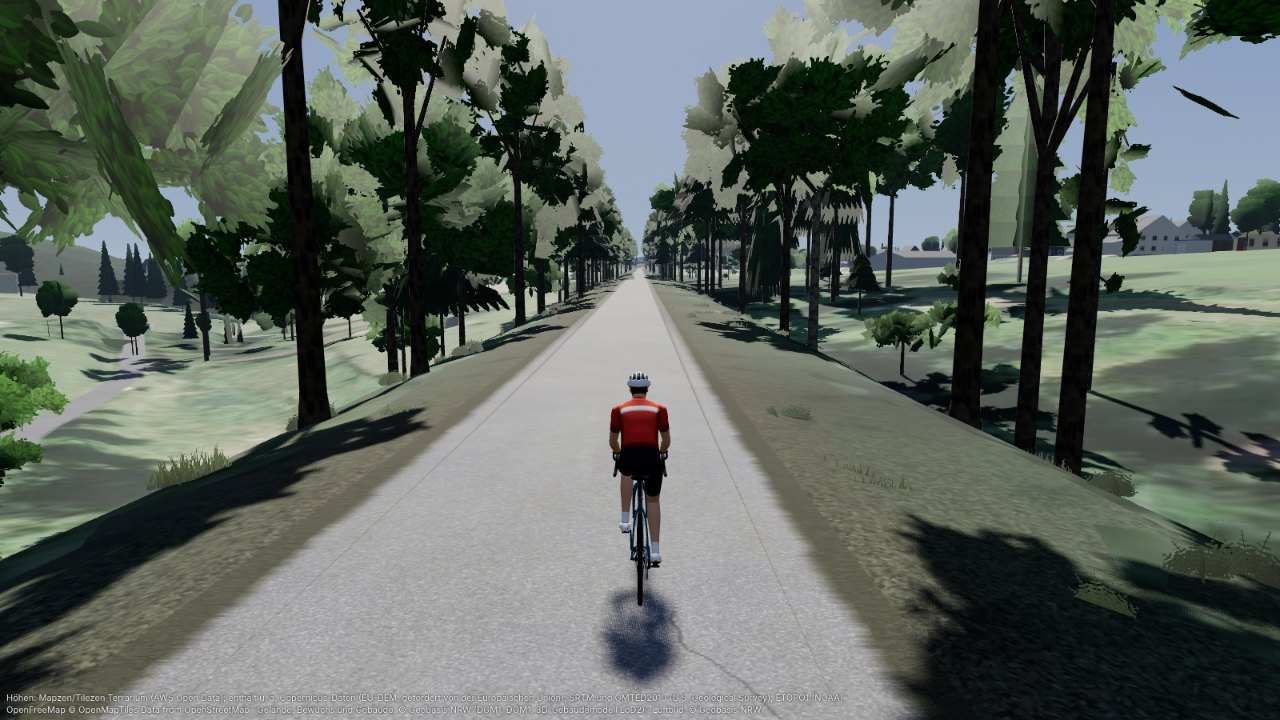
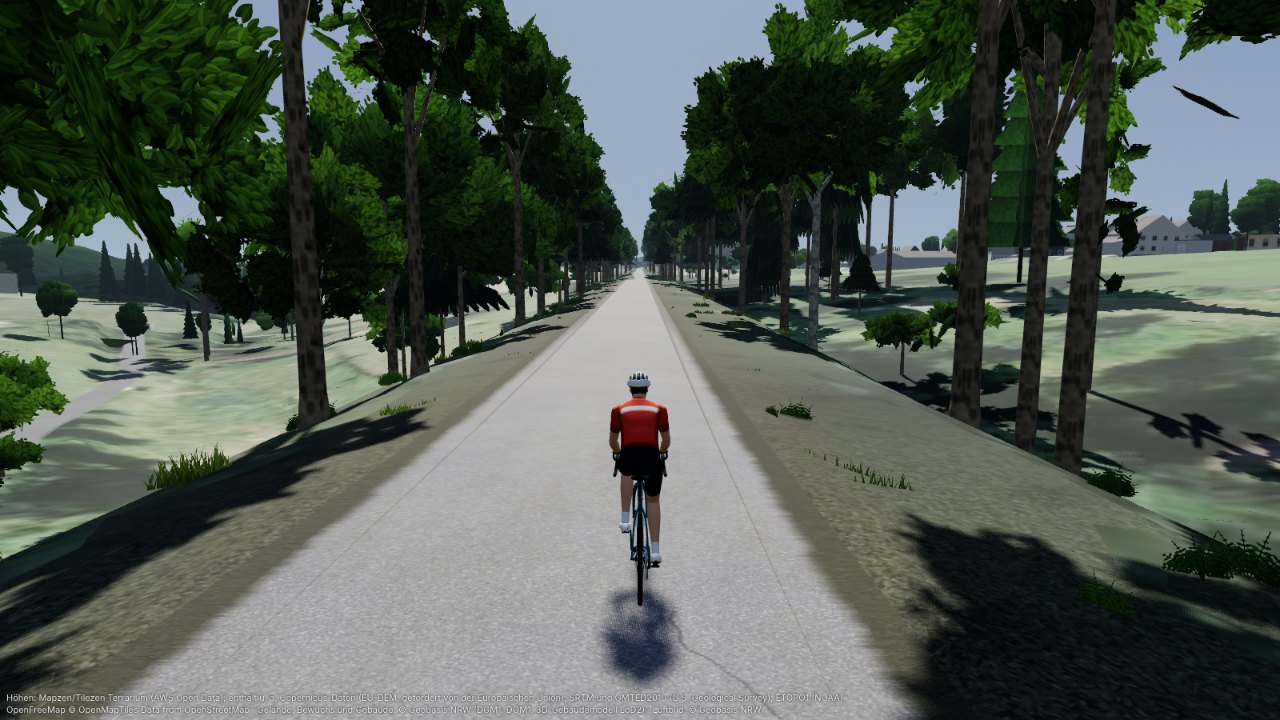
Indoor-Vegetation Runde 3b: KHR_materials_specular (specularFactor 0), helle Rinde
- Glb.kt: GlbMaterial.noSpecular schreibt KHR_materials_specular mit
  specularFactor 0 (nur extensionsUsed). gltfio 1.75.1 wertet das im
  Ubershader aus (specular_masked; Belege in world.md). Gesetzt auf
  x_mat_tree_cards, mat_tree_leaves, mat_tree_trunk ueber
  TileMaterial.noSpecular. GlbCheck und Betrachter erlauben genau diese
  Erweiterung (Abweichung von Vertrag 7.3, in world.md begruendet).
- Rinde: Albedo von linear ~0,035 auf ~0,1-0,2 (Textur und Farben heller).
- Laub ohne Glanz olivgruener, Helligkeit 0,58-0,94.
- Bildpaare neu, neu balkantrasse-laser-chase-km26; world.md Runde 3b.

Claude-Session: https://claude.ai/code/session_01E3qQ7ihnggcD4GmyCM1Ydn

diff --git a/core/src/main/kotlin/de/trailscape/core/indoor/world/TreeModels.kt b/core/src/main/kotlin/de/trailscape/core/indoor/world/TreeModels.kt
@@ -62,12 +62,12 @@ internal object TreeModels {
 
     /** Grundfarben der Kronen in sRGB (mit der hellen Atlas-Textur multipliziert). */
     private val LEAF = mapOf(
-        Species.BROAD to intArrayOf(76, 124, 34),
-        Species.TALL to intArrayOf(92, 138, 40),
-        Species.CONIFER to intArrayOf(40, 88, 44),
-        Species.SMALL to intArrayOf(84, 130, 36),
-        Species.PINE to intArrayOf(58, 102, 44),
-        Species.BUSH to intArrayOf(74, 122, 32),
+        Species.BROAD to intArrayOf(88, 118, 50),
+        Species.TALL to intArrayOf(100, 128, 56),
+        Species.CONIFER to intArrayOf(52, 80, 52),
+        Species.SMALL to intArrayOf(94, 122, 50),
+        Species.PINE to intArrayOf(68, 92, 54),
+        Species.BUSH to intArrayOf(86, 114, 46),
     )
 
     /** Grundfarbe (sRGB) der Krone einer Art — fuer Kreuzbilder der Waldkoerper. */
@@ -172,7 +172,7 @@ internal object TreeModels {
             // Verschattung: innen und unten dunkler, oben und aussen heller (geringe Spanne).
             val depth = rl.coerceIn(0.0, 1.15)
             val ht = ((p.y - crown.bottom) / max(0.5, crown.top - crown.bottom)).coerceIn(0.0, 1.0)
-            var shade = tint * (0.66 + 0.22 * depth.pow(1.3) + 0.18 * ht)
+            var shade = tint * (0.58 + 0.2 * depth.pow(1.3) + 0.16 * ht)
             if (f == 0.0) shade *= darkBase
             val s = (if (alongIsS) f else (g + 1) / 2).coerceIn(0.0, 1.0)
             val t = (if (alongIsS) (g + 1) / 2 else f).coerceIn(0.0, 1.0)
@@ -235,7 +235,7 @@ internal object TreeModels {
     private fun trunkRadius(h: Double, perM: Double, max: Double): Double = (0.05 + perM * h).coerceAtMost(max)
 
     private fun barkColor(s: Spec): Int =
-        if (s.pale) lin(Argb.rgb(168, 164, 154)) else lin(Argb.rgb(116, 102, 88))
+        if (s.pale) lin(Argb.rgb(214, 210, 200)) else lin(Argb.rgb(170, 152, 132))
 
     /** Stamm bis [top] mit Radius [r], in der feinsten Stufe mit Wurzelanlauf. */
     private fun stem(m: MeshBuilder, lod: Lod, r: Double, top: Double, color: Int) {
@@ -416,7 +416,7 @@ internal object TreeModels {
         val rnd = Rnd(s.seed, 0x7a21)
         val h = s.heightM
         val leaf = LEAF.getValue(Species.CONIFER)
-        val bark = lin(Argb.rgb(108, 92, 78))
+        val bark = lin(Argb.rgb(158, 138, 118))
         val b0 = s.bare.coerceIn(0.04, 0.4) * h
         val span = h - b0
         val r0 = 0.21 * h * s.width
@@ -483,7 +483,7 @@ internal object TreeModels {
                 val out = Vec3(cos(a0), 0.0, -sin(a0))
                 val ht = ((p.y - crown.bottom) / max(0.5, crown.top - crown.bottom)).coerceIn(0.0, 1.0)
                 val nUp = (out * 0.6 + crown.toward * 0.5 + Vec3(0.0, 0.35, 0.0)).normalized()
-                val shade = tint * (0.72 + 0.22 * ht) * (1.0 - 0.25 * t)
+                val shade = tint * (0.62 + 0.2 * ht) * (1.0 - 0.25 * t)
                 val u = reg.u(ci.toDouble())
                 val v = reg.v(t)
                 top[ri * 2 + ci] = m.vertex(p.x, p.y, p.z, nUp.x, nUp.y, nUp.z, u, v, leafColor(leaf, shade, hue))
@@ -521,8 +521,8 @@ internal object TreeModels {
         val h = s.heightM
         val leaf = LEAF.getValue(Species.PINE)
         val r = trunkRadius(h, 0.01, 0.34)
-        val lower = lin(Argb.rgb(112, 96, 84))
-        val upper = lin(Argb.rgb(150, 110, 82))
+        val lower = lin(Argb.rgb(162, 142, 126))
+        val upper = lin(Argb.rgb(196, 148, 110))
         val seg = if (lod == Lod.NEAR) 6 else if (lod == Lod.MID) 4 else 3
         if (lod == Lod.NEAR) trunk.bark(Vec3(0.0, -0.3, 0.0), Vec3(0.0, 0.6, 0.0), r * 1.8, r * 1.05, seg, false, false, lower)
         trunk.bark(Vec3(0.0, -0.3, 0.0), Vec3(0.0, 0.5 * h, 0.0), r * 1.1, r * 0.85, seg, false, false, lower)

diff --git a/core/src/main/kotlin/de/trailscape/core/indoor/world/Glb.kt b/core/src/main/kotlin/de/trailscape/core/indoor/world/Glb.kt
@@ -39,6 +39,12 @@ internal class GlbMaterial(
     val doubleSided: Boolean = false,
     val unlit: Boolean = false,
     val emissive: FloatArray? = null,
+    /**
+     * Ohne Spiegelanteil: `KHR_materials_specular` mit `specularFactor` 0 (nur in `extensionsUsed`,
+     * nicht `extensionsRequired` — wer die Erweiterung nicht kennt, zeigt das Kernmaterial). gltfio
+     * 1.75.1 waehlt dafuer die Ubershader-Variante `specular_*` und setzt `specularStrength`.
+     */
+    val noSpecular: Boolean = false,
 )
 
 internal enum class GlbPath(val key: String, val width: Int) {
@@ -74,6 +80,7 @@ private const val GL_CLAMP_TO_EDGE = 33071
 
 internal const val GLB_GENERATOR = "Trailscape indoor-world"
 internal const val KHR_MATERIALS_UNLIT = "KHR_materials_unlit"
+internal const val KHR_MATERIALS_SPECULAR = "KHR_materials_specular"
 
 /** Wachsender Little-Endian-Binaerpuffer. */
 private class BinWriter {
@@ -160,6 +167,7 @@ internal class GlbScene(
     private val materials = ArrayList<JsonObject>()
     private val materialNames = ArrayList<String>()
     private var anyUnlit = false
+    private var anySpecular = false
     private val nodes = ArrayList<NodeEntry>()
     private val animations = ArrayList<JsonObject>()
     private val timeAccessors = HashMap<ContentKey, Int>()
@@ -226,9 +234,20 @@ internal class GlbScene(
             if (m.alphaMode != GlbAlphaMode.OPAQUE) put("alphaMode", m.alphaMode.name)
             if (m.alphaMode == GlbAlphaMode.MASK) put("alphaCutoff", m.alphaCutoff)
             if (m.doubleSided) put("doubleSided", true)
-            if (m.unlit) put("extensions", buildJsonObject { put(KHR_MATERIALS_UNLIT, JsonObject(emptyMap())) })
+            if (m.unlit || m.noSpecular) {
+                put(
+                    "extensions",
+                    buildJsonObject {
+                        if (m.unlit) put(KHR_MATERIALS_UNLIT, JsonObject(emptyMap()))
+                        if (m.noSpecular && !m.unlit) {
+                            put(KHR_MATERIALS_SPECULAR, buildJsonObject { put("specularFactor", 0) })
+                        }
+                    },
+                )
+            }
         }
         if (m.unlit) anyUnlit = true
+        if (m.noSpecular && !m.unlit) anySpecular = true
         materials.add(obj)
         materialNames.add(m.name)
         return materials.size - 1
@@ -434,7 +453,15 @@ internal class GlbScene(
         val roots = nodes.indices.filter { nodes[it].parent == null }
         val json = buildJsonObject {
             put("asset", buildJsonObject { put("version", "2.0"); put("generator", GLB_GENERATOR) })
-            if (anyUnlit) put("extensionsUsed", buildJsonArray { add(JsonPrimitive(KHR_MATERIALS_UNLIT)) })
+            if (anyUnlit || anySpecular) {
+                put(
+                    "extensionsUsed",
+                    buildJsonArray {
+                        if (anyUnlit) add(JsonPrimitive(KHR_MATERIALS_UNLIT))
+                        if (anySpecular) add(JsonPrimitive(KHR_MATERIALS_SPECULAR))
+                    },
+                )
+            }
             put("scene", 0)
             put(
                 "scenes",

diff --git a/core/src/main/kotlin/de/trailscape/core/indoor/world/TreesLayer.kt b/core/src/main/kotlin/de/trailscape/core/indoor/world/TreesLayer.kt
@@ -374,7 +374,7 @@ internal class TreesLayer : TileLayer {
             }
         }
         val bark = ctx.textures.get("x_bark", jpegQuality = 84) { FoliageAtlas.barkImage() }
-        val trunkMat = TileMaterial(WorldNames.MAT_TREE_TRUNK, texture = bark, repeat = true, roughness = 0.95f)
+        val trunkMat = TileMaterial(WorldNames.MAT_TREE_TRUNK, texture = bark, repeat = true, roughness = 0.95f, noSpecular = true)
         val trunks = out.mesh(WorldNames.NODE_TREES, trunkMat)
         val crowns = out.mesh(WorldNames.NODE_TREES, leaves)
         val scratchTrunk = MeshBuilder(64, 64)
@@ -594,6 +594,7 @@ internal class TreesLayer : TileLayer {
             alphaMode = GlbAlphaMode.MASK,
             alphaCutoff = 0.5f,
             doubleSided = false,
+            noSpecular = true,
         )
     }
 
@@ -608,6 +609,7 @@ internal class TreesLayer : TileLayer {
             alphaMode = GlbAlphaMode.MASK,
             alphaCutoff = 0.5f,
             doubleSided = false,
+            noSpecular = true,
         )
     }
 
@@ -616,7 +618,7 @@ internal class TreesLayer : TileLayer {
         val tex = ctx.textures.get("x_canopy", jpegQuality = 86) { FoliageAtlas.canopyImage() }
         return TileMaterial(
             WorldNames.MAT_TREE_LEAVES, texture = tex, repeat = true, roughness = 0.95f,
-            alphaMode = GlbAlphaMode.MASK, alphaCutoff = 0.5f, doubleSided = true,
+            alphaMode = GlbAlphaMode.MASK, alphaCutoff = 0.5f, doubleSided = true, noSpecular = true,
         )
     }
 

diff --git a/core/src/main/kotlin/de/trailscape/core/indoor/world/FoliageAtlas.kt b/core/src/main/kotlin/de/trailscape/core/indoor/world/FoliageAtlas.kt
@@ -613,8 +613,10 @@ internal object FoliageAtlas {
             val furrow = Noise.value(x / 4.0, y / 22.0, 0xba01, w / 4).let { 1 - kotlin.math.abs(it - 0.5) * 2 }
             val plates = Noise.value(x / 8.0, y / 10.0, 0xba02, w / 8)
             val fine = Noise.value(x / 2.0, y / 4.0, 0xba03, w / 2)
-            var v = 0.42 + 0.36 * plates + 0.12 * fine
-            v *= 0.55 + 0.45 * smoothstep(0.15, 0.6, furrow)
+            // Helligkeit 0,45–0,95 (sRGB): mit der Vertexfarbe linear rund 0,1–0,2 wie echte Rinde
+            // (vorher ~0,035 — Staemme wirkten auch in der Sonne fast schwarz).
+            var v = 0.58 + 0.28 * plates + 0.1 * fine
+            v *= 0.68 + 0.32 * smoothstep(0.15, 0.6, furrow)
             val c = (v.coerceIn(0.0, 1.0) * 255).toInt()
             img.argb[y * w + x] = Argb.of(255, c, c, (c * 0.94).toInt())
         }

diff --git a/tool/indoor-dev/viewer/viewer.js b/tool/indoor-dev/viewer/viewer.js
@@ -61,7 +61,8 @@ const LEVEL_FACTOR = 4;
 const NODE_NAMES = ['terrain', 'route', 'roads', 'buildings', 'trees', 'water', 'props'];
 const MATERIAL_NAMES = ['mat_terrain', 'mat_building_wall', 'mat_building_roof', 'mat_tree_trunk', 'mat_tree_leaves', 'mat_water'];
 const SUB_RE = /^terrain_sub_(\d+)_(\d+)$/;
-const ALLOWED_EXTENSIONS = ['KHR_materials_unlit'];
+// KHR_materials_specular: nur specularFactor 0 fuer Vegetation (Abweichung, docs/indoor/world.md; gltfio 1.75.1: Ubershader specular_*)
+const ALLOWED_EXTENSIONS = ['KHR_materials_unlit', 'KHR_materials_specular'];
 const ALLOWED_ATTRIBUTES = ['POSITION', 'NORMAL', 'TEXCOORD_0', 'COLOR_0'];
 const MODEL_ATTRIBUTES = [...ALLOWED_ATTRIBUTES, 'JOINTS_0', 'WEIGHTS_0'];
 const VISIBILITY_M = { LOW: 6000, MEDIUM: 12000, HIGH: 20000 };

diff --git a/core/src/main/kotlin/de/trailscape/core/indoor/world/GlbCheck.kt b/core/src/main/kotlin/de/trailscape/core/indoor/world/GlbCheck.kt
@@ -405,7 +405,12 @@ private val MATERIAL_NAMES: Set<String> = setOf(
 ) + SurfaceKind.entries.map { WorldNames.MAT_ROUTE_PREFIX + it.textureKey }
 
 private val ALLOWED_ATTRIBUTES = setOf("POSITION", "NORMAL", "TEXCOORD_0", "COLOR_0")
-private val ALLOWED_EXTENSIONS = setOf(KHR_MATERIALS_UNLIT)
+/**
+ * Erlaubte Erweiterungen: `KHR_materials_unlit` (Vertrag 7.3) und — Abweichung, siehe
+ * docs/indoor/world.md — `KHR_materials_specular` (nur `specularFactor` 0 fuer Vegetation;
+ * gltfio 1.75.1 hat dafuer die Ubershader-Variante `specular_*`).
+ */
+private val ALLOWED_EXTENSIONS = setOf(KHR_MATERIALS_UNLIT, KHR_MATERIALS_SPECULAR)
 
 private class GlbChecker(private val p: ParsedGlb, private val model: Boolean) {
     private val out = ArrayList<String>()

diff --git a/core/src/main/kotlin/de/trailscape/core/indoor/world/WorldInternals.kt b/core/src/main/kotlin/de/trailscape/core/indoor/world/WorldInternals.kt
@@ -364,6 +364,8 @@ internal class TileMaterial(
     val alphaMode: GlbAlphaMode = GlbAlphaMode.OPAQUE,
     val alphaCutoff: Float = 0.5f,
     val doubleSided: Boolean = false,
+    /** Ohne Spiegelanteil (`KHR_materials_specular`, `specularFactor` 0) — Vegetation. */
+    val noSpecular: Boolean = false,
 )
 
 // ---------------------------------------------------------------------------
@@ -545,6 +547,7 @@ internal class TileOutput(val spec: TileSpec) {
                     alphaMode = m.alphaMode,
                     alphaCutoff = m.alphaCutoff,
                     doubleSided = m.doubleSided,
+                    noSpecular = m.noSpecular,
                 ),
             )
         }

diff --git a/docs/indoor/world.md b/docs/indoor/world.md
@@ -353,6 +353,54 @@ nicht ganz vermeiden).
 Die Balkantrasse mit `--laser` scheitert bei `-Xmx256m` weiterhin beim Laden
 (`OutOfMemoryError`, Laser-Stufe, unabhängig von der Vegetation).
 
+### Runde 3b: Spiegelanteil abgeschaltet, Rinde hell
+
+Rückmeldung zu Runde 3: Sonnige Kronen weiterhin grau verschleiert, Stämme
+fast schwarz.
+
+- **`KHR_materials_specular` mit `specularFactor` 0** auf allen
+  Vegetationsmaterialien (`x_mat_tree_cards` samt Bodenbewuchs und
+  Kreuzbildern, `mat_tree_leaves`, `mat_tree_trunk`). In `Glb.kt` als
+  optionale Material-Erweiterung (`GlbMaterial.noSpecular`, nur in
+  `extensionsUsed`, nicht `extensionsRequired`), über
+  `TileMaterial.noSpecular` gesetzt. **Beleg, dass gltfio 1.75.1 sie im
+  Ubershader auswertet** (Tag `v1.75.1`):
+  - `libs/gltfio/include/gltfio/MaterialProvider.h:98` `bool hasSpecular : 1;`
+  - `libs/gltfio/src/AssetLoader.cpp:1462` `.hasSpecular = !!inputMat->has_specular,`;
+    `:1760–1763` setzt `specularColorFactor` und
+    `specularStrength = spConfig.specular_factor`
+  - `libs/gltfio/src/UbershaderProvider.cpp:194`
+    `requirements.features["Specular"] = config.hasSpecular;`; `:74–78`
+    (Unlit und Specular schließen sich aus — hier nicht gebraucht)
+  - `libs/gltfio/CMakeLists.txt:152–154` baut `specular_opaque`,
+    `specular_fade`, **`specular_masked`** ins Archiv;
+    `materials/specular.spec.in`: `VertexColors`, `BaseColorTexture` optional,
+    `Specular = optional`
+  - `materials/specular.mat.in:128`
+    `material.specularFactor = materialParams.specularStrength;` — laut
+    Materials-Doku skaliert `specularFactor` F0 und setzt F90, mit 0 also kein
+    Spiegelanteil, auch nicht bei streifendem Blick.
+
+  Der Betrachter lädt die Erweiterung als `MeshPhysicalMaterial`
+  (`specularIntensity` 0) und erlaubt sie in der Formatprüfung, ebenso
+  `GlbCheck` in `:core`. Auf dem Gerät nicht gesehen: Ob `specular_masked` mit
+  `doubleSided` (Kronendach) und MSAA genauso wie `lit_masked` läuft, sagen die
+  Quellen (gleiche Vorlage `${BLENDING}`/`${DOUBLESIDED}`), geprüft ist es nicht.
+- **Rinde:** Die Albedo war linear rund 0,035 (Textur ~0,2 × Vertexfarbe ~0,15);
+  echte Rinde liegt bei 0,1–0,2. Rindentextur heller (0,45–0,95 sRGB),
+  Rindenfarben angehoben (Laubbaum sRGB 170/152/132, Fichte 158/138/118,
+  Kiefer unten 162/142/126, oben 196/148/110, Birke 214/210/200). Die
+  Stammnormalen sind radial (Loft), Stämme empfangen keine Schatten — der
+  Rest war Albedo und Glanz.
+- **Laub:** Ohne Glanz wurde das Grün zu kräftig; Grundfarben olivgrüner,
+  Helligkeit 0,58–0,94.
+- Die Normalen zur Strecke (Runde 3) bleiben: Sie halten die Schattenseite
+  der Kronen hell genug.
+
+Messwerte unverändert gegenüber Runde 3 (Schauinsland 560 553 Dreiecke,
+13,2 MB/km; Altenberg 17,8; Tharandt 13,9; Balkantrasse 18,5 MB/km). Neu im
+Bildsatz: `balkantrasse-laser-chase-km26`.
+
 ### Bildrate: Overdraw und Stellschrauben
 
 Alpha-getestete Karten überlagern sich (Overdraw), und `discard` hebt Early-Z
@@ -398,6 +446,13 @@ Fällt auf dem Gerät die Bildrate, in dieser Reihenfolge drehen:
    Blattkarten mit echtem Alpha-Ausschnitt in `x_mat_tree_cards` (MASK,
    **einseitig**, beide Wicklungen im Netz); `mat_tree_leaves` (MASK,
    doppelseitig, wie im Vertrag) trägt das deckende Kronendach der Waldkörper.
+   **Erweiterung `KHR_materials_specular`** (Vertrag 7.3: „keine weiteren
+   Erweiterungen“): nur `specularFactor` 0 auf Vegetationsmaterialien, nur in
+   `extensionsUsed`. Ohne sie überdeckt der Spiegelanteil der Sonne bei
+   streifendem Blick das Grün (Runde 3/3b). gltfio 1.75.1 unterstützt sie im
+   Ubershader (`specular_masked`, Belege oben). `GlbCheck` und Betrachter
+   lassen genau diese Erweiterung zu. **Bitte an den Vertragsbesitzer:**
+   7.3 entsprechend ergänzen.
 2. **Wasser nur als Flächen.** Schmale Wasserläufe (Linien `waterway`)
    bekommen keinen eigenen Spiegel; sie erscheinen nur im Luftbild bzw. in der
    erzeugten Bodentextur. Wasser liegt als Gitterzellen (4 m in Stufe 0) knapp

diff --git a/tool/indoor-dev/viewer/README.md b/tool/indoor-dev/viewer/README.md
@@ -99,7 +99,7 @@ Gezeichnet wird nur auf Anforderung, nicht in einer Schleife.
 - Schatten nach Knotennamen: `buildings` wirft und empfängt, `trees` wirft,
   `terrain`/`route`/`roads`/`water` empfangen, `props` und `x_…` nichts.
 - Formatprüfung je GLB (**Fehler**): andere Erweiterungen als
-  `KHR_materials_unlit`; Knoten, die weder in `WorldNames` stehen noch
+  `KHR_materials_unlit` und `KHR_materials_specular` (Vegetation ohne Glanz); Knoten, die weder in `WorldNames` stehen noch
   `terrain_sub_i_j` oder `x_…` heißen; doppelte Knoten; Kameras, Lichter,
   Animationen, Skins in Kacheln; ab Stufe 1 nicht genau 16 Teilflächen oder ein
   Netz direkt an `terrain`; `metallicFactor ≠ 0`, `roughnessFactor < 0,6`;
